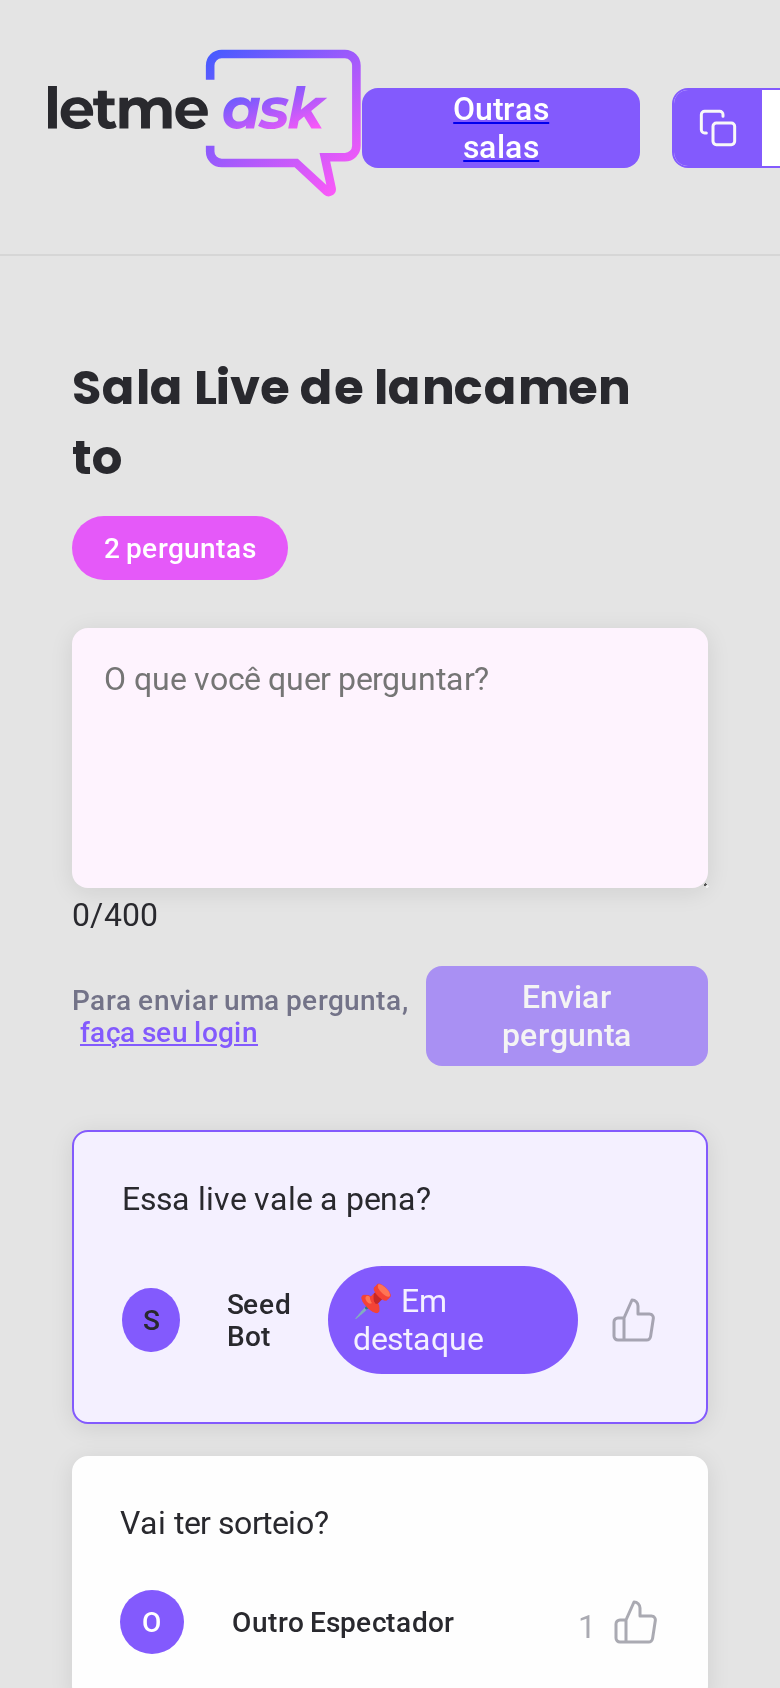
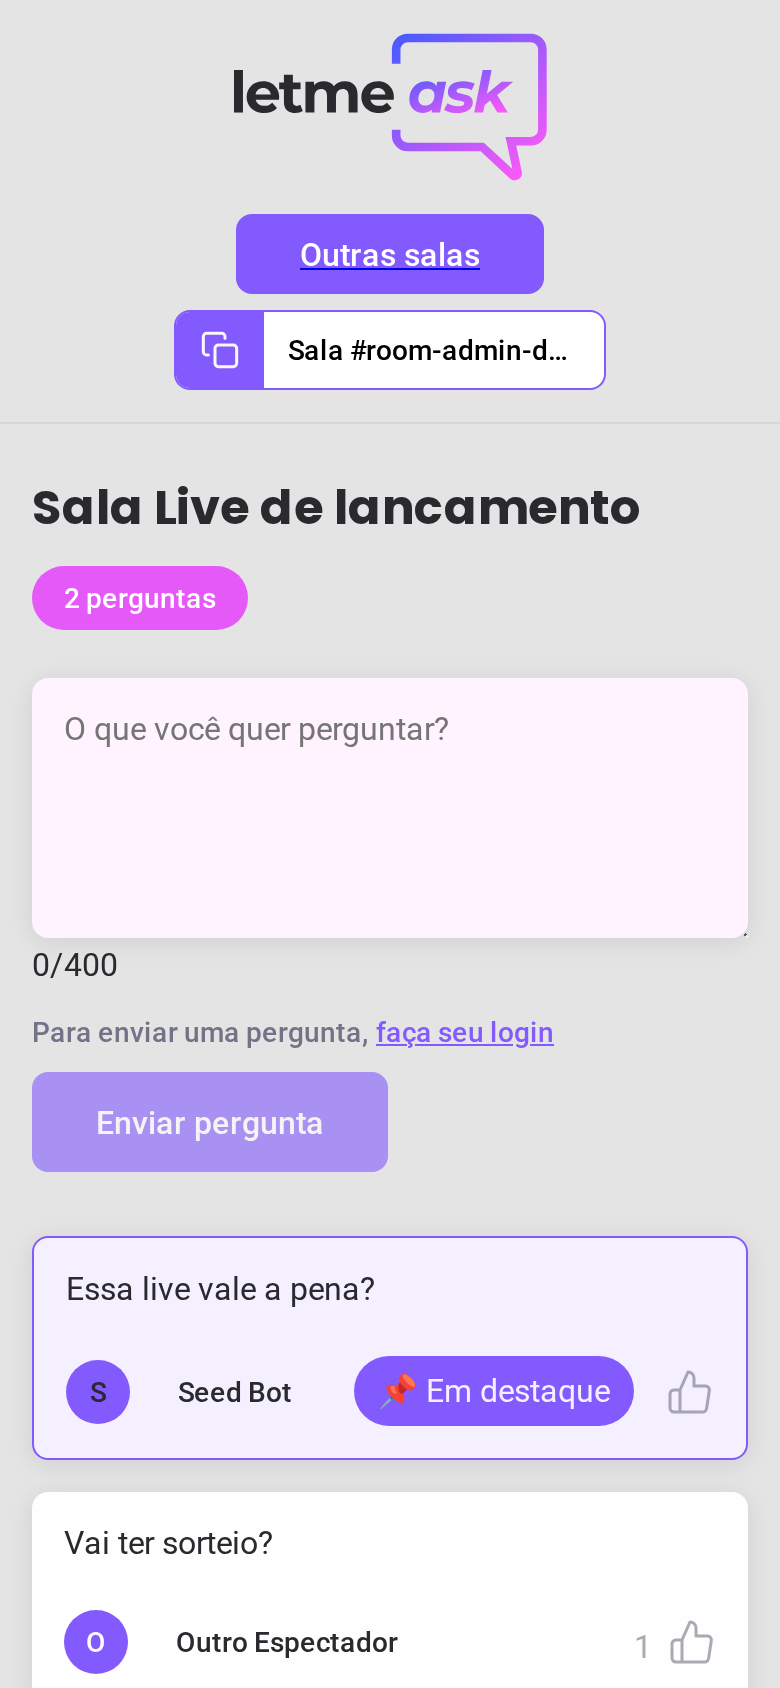
fix: responsive layout for mobile and document emulator sandbox

diff --git a/src/pages/RoomsMe/styles.scss b/src/pages/RoomsMe/styles.scss
@@ -60,3 +60,33 @@
     }
   }
 }
+
+@media (max-width: 767px) {
+  #page-roomsMe {
+    .rooms {
+      padding: 0 16px;
+      margin-top: 24px;
+
+      > div {
+        flex-wrap: wrap;
+        gap: 12px;
+      }
+
+      .room {
+        flex-wrap: wrap;
+        gap: 12px;
+
+        h1 {
+          width: 100%;
+          font-size: 20px;
+          word-break: break-word;
+        }
+
+        div {
+          width: 100%;
+          justify-content: flex-end;
+        }
+      }
+    }
+  }
+}

diff --git a/src/pages/AllRooms/styles.scss b/src/pages/AllRooms/styles.scss
@@ -49,3 +49,24 @@
     }
   }
 }
+
+@media (max-width: 767px) {
+  #page-allRooms {
+    main {
+      padding: 0 16px;
+    }
+
+    .rooms {
+      grid-template-columns: 1fr;
+      margin-top: 24px;
+
+      .room {
+        > div {
+          flex-wrap: wrap;
+          justify-content: center;
+          gap: 12px;
+        }
+      }
+    }
+  }
+}

diff --git a/src/components/Question/styles.scss b/src/components/Question/styles.scss
@@ -27,6 +27,20 @@
     word-break: break-word;
   }
 
+  @media (max-width: 767px) {
+    padding: 16px;
+
+    footer {
+      flex-wrap: wrap;
+      gap: 12px;
+
+      > div {
+        flex-wrap: wrap;
+        gap: 8px;
+      }
+    }
+  }
+
   footer {
     display: flex;
     justify-content: space-between;

diff --git a/src/components/Header/styles.scss b/src/components/Header/styles.scss
@@ -36,3 +36,21 @@
     }
   }
 }
+
+@media (max-width: 767px) {
+  .header {
+    padding: 16px;
+
+    .content {
+      flex-wrap: wrap;
+      justify-content: center;
+      gap: 12px;
+
+      > div {
+        flex-wrap: wrap;
+        justify-content: center;
+        gap: 8px;
+      }
+    }
+  }
+}

diff --git a/src/components/RoomCode/styles.scss b/src/components/RoomCode/styles.scss
@@ -26,3 +26,18 @@
     font-weight: 500;
   }
 }
+
+@media (max-width: 767px) {
+  .room-code {
+    max-width: 100%;
+
+    span {
+      width: auto;
+      min-width: 0;
+      max-width: 170px;
+      overflow: hidden;
+      text-overflow: ellipsis;
+      white-space: nowrap;
+    }
+  }
+}

diff --git a/src/pages/Room/styles.scss b/src/pages/Room/styles.scss
@@ -74,3 +74,20 @@
     }
   }
 }
+
+@media (max-width: 767px) {
+  #page-room {
+    main {
+      padding: 0 16px;
+
+      .room-title {
+        margin-top: 24px;
+      }
+
+      form .form-footer {
+        flex-wrap: wrap;
+        gap: 12px;
+      }
+    }
+  }
+}

diff --git a/src/pages/AdminRoom/styles.scss b/src/pages/AdminRoom/styles.scss
@@ -39,3 +39,15 @@
     }
   }
 }
+
+@media (max-width: 767px) {
+  #page-admin-room {
+    main {
+      padding: 0 16px;
+
+      .details {
+        margin-top: 24px;
+      }
+    }
+  }
+}

diff --git a/README.md b/README.md
@@ -19,6 +19,7 @@ and modernized in 2026 on Node 22 with every dependency current.
 <p>
   <img src=".github/screenshots/home-mobile.png" alt="Mobile home" width="240" />
   <img src=".github/screenshots/room-audience-mobile.png" alt="Mobile room" width="240" />
+  <img src=".github/screenshots/all-rooms-mobile.png" alt="Mobile room discovery" width="240" />
 </p>
 
 ## Features
@@ -74,6 +75,13 @@ npm run dev       # with VITE_USE_EMULATORS="true" in .env
 
 The app detects `VITE_USE_EMULATORS="true"` and attaches to the local
 emulators. Sign in with any account through the emulator popup window.
+
+| Emulator Suite UI: Realtime Database | Emulator Suite UI: Authentication |
+|---|---|
+| ![Emulator database](.github/screenshots/emulator-database.png) | ![Emulator auth](.github/screenshots/emulator-auth.png) |
+
+Security rules run inside the emulator too: writes without a matching owner
+or an authenticated session are rejected exactly like in production.
 
 ### Quality gates
 
